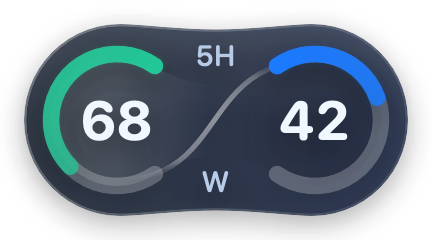
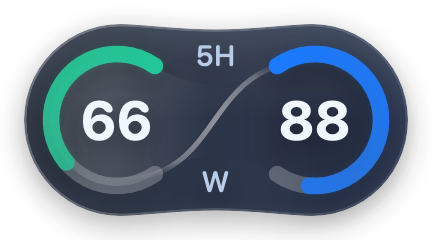
Use 66 and 88 for public quota demonstrations

diff --git a/Previews/index.html b/Previews/index.html
@@ -9,13 +9,13 @@
 </head>
 <body><main>
 <header><img class="brand" src="Assets/app-icon.png" alt="蓝色底板、猫耳双 C 应用图标"><div><div class="eyebrow">PET’S PET · VERSION 1.2.3</div><h1>安静跟随，深浅自如。</h1><p>用量面板间距与上方操作条统一</p></div></header>
-<div class="notice">额度组件图片由应用同一个 SwiftUI 视图生成。68 / 42、2 张卡及到期日期均为明确的评审样本；菜单和宠物布局为示意。此页面不启动或安装应用，也不验证真实桌面跟随。</div>
+<div class="notice">额度组件图片由应用同一个 SwiftUI 视图生成。66 / 88、2 张卡及到期日期均为明确的评审样本；对外额度演示统一左侧 66、右侧 88，菜单和宠物布局为示意。此页面不启动或安装应用，也不验证真实桌面跟随。</div>
 <section id="curve"><div class="section-head"><h2>本次调整 · 从进度条端面中间延伸</h2><div class="controls" aria-label="曲线对比外观"><button data-theme="light" aria-pressed="false">浅色</button><button data-theme="dark" aria-pressed="false">深色</button></div></div><div class="grid">
 <article class="card"><div class="head"><h3>调整前</h3><span class="tag">原生渲染 · 2×</span></div><div class="stage themed-stage"><img class="widget zoom themed-widget" data-case="curve-before-error" src="Assets/curve-before-error.png" alt="调整前，曲线从轨道边缘附近延伸"></div><div class="meta">保留原图，方便比较两端连接位置。</div></article>
 <article class="card"><div class="head"><h3>调整后</h3><span class="tag">源码预览 · 未发布</span></div><div class="stage themed-stage"><img class="widget zoom themed-widget" data-case="error" src="Assets/error.png" alt="调整后，完整太极曲线穿过两侧轨道端面中心"></div><div class="meta">保留完整 S 形与舒展的两端，曲线经过轨道端面中心；渐隐随自然端点调整。</div></article></div></section>
 <section><div class="section-head"><h2>01 · 浅色与深色</h2><button class="refresh" id="refresh">刷新预览</button></div><div class="grid">
-<article class="card"><div class="head"><h3>浅色</h3><span class="tag">原生渲染 · 2×</span></div><div class="stage light-stage"><img class="widget zoom" src="Assets/current.png" alt="浅色双 C 组件，样本 68 和 42"></div><div class="meta">中央标签：上方 5H，下方 W；左侧绿色 5H，右侧蓝色 W。</div></article>
-<article class="card"><div class="head"><h3>深色</h3><span class="tag">原生渲染 · 2×</span></div><div class="stage dark-stage"><img class="widget zoom" src="Assets/current-dark.png" alt="深色双 C 组件，浅色数字，样本 68 和 42"></div><div class="meta">深色同步调整为上方 5H、下方 W。</div></article></div></section>
+<article class="card"><div class="head"><h3>浅色</h3><span class="tag">原生渲染 · 2×</span></div><div class="stage light-stage"><img class="widget zoom" src="Assets/current.png" alt="浅色双 C 组件，样本 66 和 88"></div><div class="meta">中央标签：上方 5H，下方 W；左侧绿色 5H，右侧蓝色 W。</div></article>
+<article class="card"><div class="head"><h3>深色</h3><span class="tag">原生渲染 · 2×</span></div><div class="stage dark-stage"><img class="widget zoom" src="Assets/current-dark.png" alt="深色双 C 组件，浅色数字，样本 66 和 88"></div><div class="meta">深色同步调整为上方 5H、下方 W。</div></article></div></section>
 <section class="section"><div class="section-head"><h2>02 · 菜单栏与外观选择</h2><div class="controls" aria-label="外观预览"><button data-theme="system" aria-pressed="true">跟随系统</button><button data-theme="light" aria-pressed="false">浅色</button><button data-theme="dark" aria-pressed="false">深色</button></div></div><div class="grid">
 <article class="card"><div class="head"><h3>操作菜单</h3><span class="tag">样本信息 · 外观可点击</span></div><div class="stage menu-stage themed-stage"><div id="menu" class="menu-shell"><div class="menu-title">Pet’s Pet · 1.2.3</div><div class="menu-row menu-note">正在跟随宠物</div><div class="sep"></div><div id="quotaRows" aria-live="polite"><div class="menu-row menu-note">读取评审样本…</div></div><div class="sep"></div><div class="menu-row">立即刷新额度</div><div class="menu-row">外观</div><div class="subchoices"><button class="menu-choice" data-choice="system"><span class="menu-check">✓</span>跟随系统</button><button class="menu-choice" data-choice="light"><span class="menu-check"></span>浅色</button><button class="menu-choice" data-choice="dark"><span class="menu-check"></span>深色</button></div><div class="sep"></div><div class="menu-row">权限与检测状态…</div><div class="menu-row">重新检测宠物</div><div class="menu-row">打开本地诊断文件夹</div><div class="sep"></div><div class="menu-row">退出 Pet’s Pet</div></div></div><div class="meta">正式应用中「外观」为子菜单。此处展开方便评审。</div></article>
 <article class="card"><div class="head"><h3>实际大小</h3><span class="tag">可见组件 128 × 64</span></div><div class="stage themed-stage" style="min-height:445px;flex-direction:column;gap:28px"><img class="widget themed-widget" data-case="current" src="Assets/current.png" alt="所选外观的实际大小组件"><p id="themeDescription">跟随系统外观</p></div><div class="meta">应用会记住选择；切换后立即生效。</div></article></div></section>

diff --git a/Tools/Preview.swift b/Tools/Preview.swift
@@ -26,11 +26,12 @@ struct PreviewRenderer {
                 weekly: QuotaWindow(usedPercent: weekly, windowDurationMins: 10080, resetsAt: now.addingTimeInterval(200000).timeIntervalSince1970), fetchedAt: now, resetCredits: sampleCards)
             return value
         }
-        let current = model(32, 58)
+        // Public demonstration images always show 66 / 88 remaining.
+        let current = model(34, 12)
         let limits = model(0, 100)
         let loading = DisplayModel(); loading.now = now
         let failure = DisplayModel(); failure.now = now; failure.loading = false; failure.error = "预览：查询失败"
-        let stale = model(32, 58)
+        let stale = model(34, 12)
         stale.snapshot = QuotaSnapshot(fiveHour: stale.snapshot?.fiveHour, weekly: stale.snapshot?.weekly, fetchedAt: now.addingTimeInterval(-300))
         var cases = [("current", current), ("limits", limits), ("loading", loading), ("error", failure), ("stale", stale)]
         for remaining in [100, 75, 50, 25, 0] {

diff --git a/Docs/DEVELOPMENT.md b/Docs/DEVELOPMENT.md
@@ -201,7 +201,7 @@ python3 -m http.server 8765 --bind 127.0.0.1 --directory Previews
 
 打开 `http://127.0.0.1:8765/`。服务只绑定本机，仅提供 `Previews` 目录。页面可切换浅色、蓝色、深色背景，查看 1–3 倍放大、实际尺寸、原参考图和异常状态。曲线叠加核对图将当前原生路径按双圆等比映射回原参考图，橙线显示当前路径，青点显示参考中段的可辨线迹；当前样式为左下连右上，叠加图将路径翻回原参考方向以单独核对曲度；整条路径包含两端弯曲，数值偏差仅衡量中段采样，仍需对照实际透明度和遮挡效果，不宣称整条线逐像素一致。使用 Codex 右侧浏览器工具栏的注释功能圈选部位，将意见发送到当前聊天。
 
-修改样式后重新执行 `zsh Scripts/preview.sh`，再点击网页的“刷新预览”。刷新按钮只加载已经生成的图片，不会自行编译。页面的 68 / 42 等为明确标注的评审样本，不代表当前账号额度。网页不验证宠物跟随、系统权限或真实桌面合成效果；最终版本仍需在 App 中验收这些行为。
+修改样式后重新执行 `zsh Scripts/preview.sh`，再点击网页的“刷新预览”。刷新按钮只加载已经生成的图片，不会自行编译。页面的 66 / 88 等为明确标注的评审样本，不代表当前账号额度。网页不验证宠物跟随、系统权限或真实桌面合成效果；最终版本仍需在 App 中验收这些行为。
 
 - `Tools/Preview.swift`：独立离屏渲染入口及评审样本，不打包进 App。
 - `Scripts/preview.sh`：复用原生视图生成预览，不改动应用包。

diff --git a/README.md b/README.md
@@ -16,7 +16,7 @@
 
 ![额度组件浅色预览](Previews/Assets/current.png)
 
-上图为原生组件的固定样式评审样本，不代表实际账号额度。
+上图为原生组件的固定样式评审样本：左侧 5H 剩余 66、右侧 W 剩余 88，不代表实际账号额度。对外额度演示图统一使用这组样本值。
 
 ## 系统要求
 
